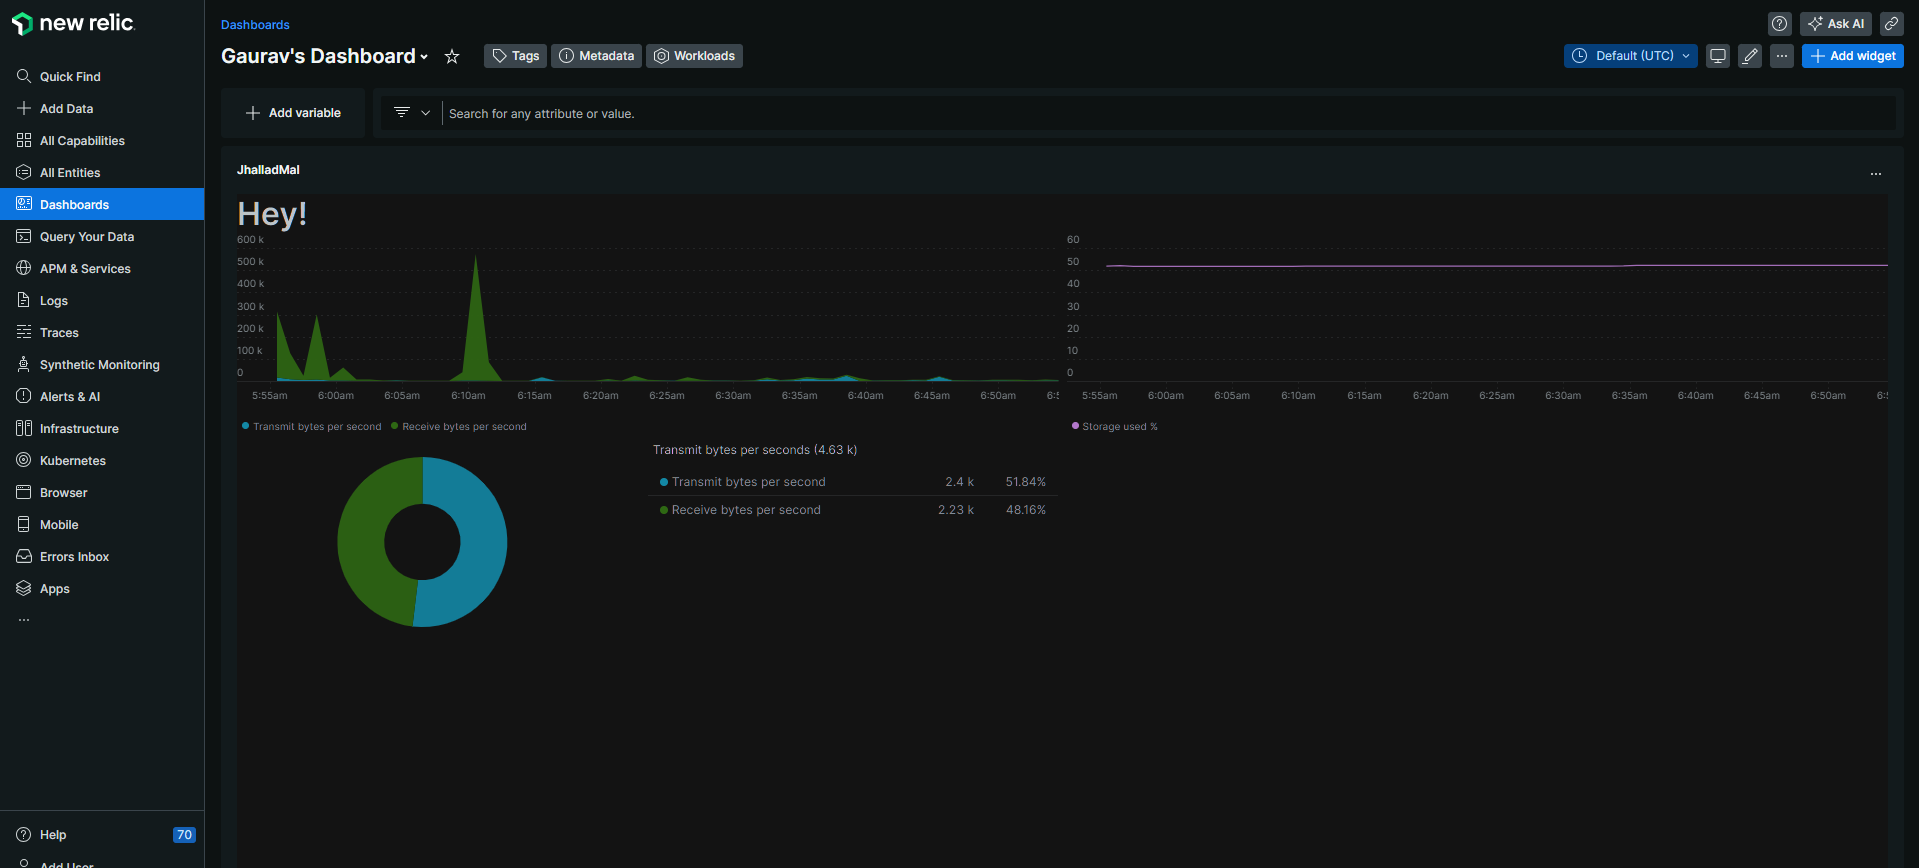
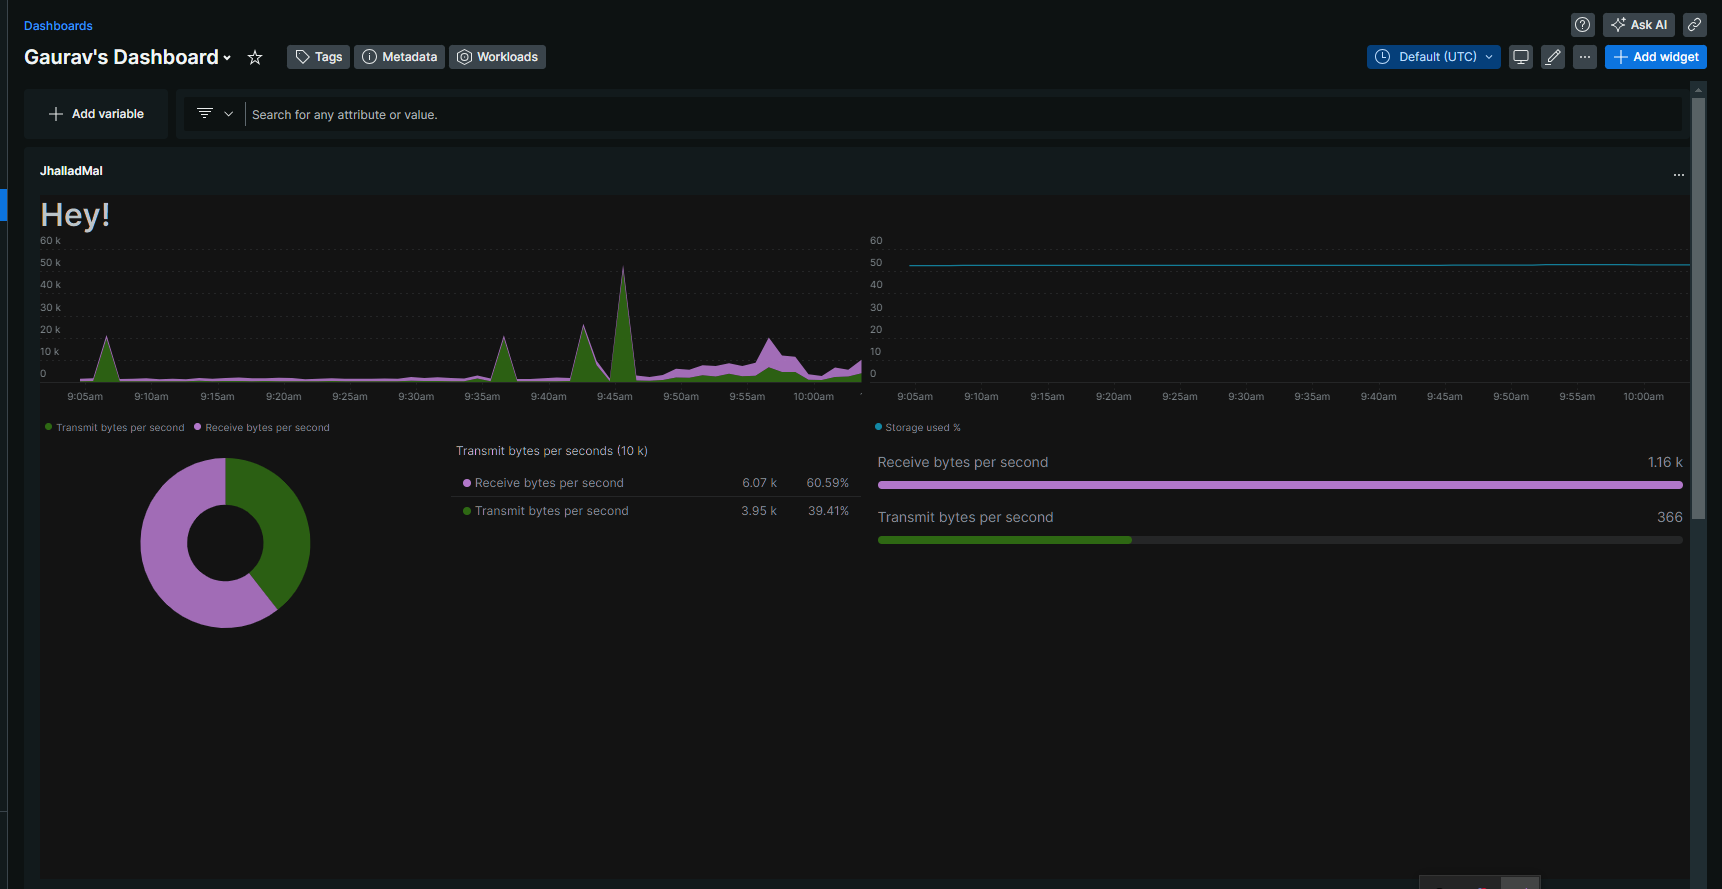
add

diff --git a/dist/2ee40707-fbaa-4a5f-817d-26e1fe98f58a--jhallad-mal~ffa349b2.js b/dist/2ee40707-fbaa-4a5f-817d-26e1fe98f58a--jhallad-mal~ffa349b2.js
@@ -1,0 +1,2 @@
+var __NR_MODULES="object"==typeof __NR_MODULES?__NR_MODULES:{};__NR_MODULES["2ee40707-fbaa-4a5f-817d-26e1fe98f58a--jhallad-mal"]=function(e){var t={};function r(n){if(t[n])return t[n].exports;var a=t[n]={i:n,l:!1,exports:{}};return e[n].call(a.exports,a,a.exports,r),a.l=!0,a.exports}r.m=e,r.c=t,r.d=function(e,t,n){r.o(e,t)||Object.defineProperty(e,t,{enumerable:!0,get:n})},r.r=function(e){"undefined"!=typeof Symbol&&Symbol.toStringTag&&Object.defineProperty(e,Symbol.toStringTag,{value:"Module"}),Object.defineProperty(e,"__esModule",{value:!0})},r.t=function(e,t){if(1&t&&(e=r(e)),8&t)return e;if(4&t&&"object"==typeof e&&e&&e.__esModule)return e;var n=Object.create(null);if(r.r(n),Object.defineProperty(n,"default",{enumerable:!0,value:e}),2&t&&"string"!=typeof e)for(var a in e)r.d(n,a,function(t){return e[t]}.bind(null,a));return n},r.n=function(e){var t=e&&e.__esModule?function(){return e.default}:function(){return e};return r.d(t,"a",t),t},r.o=function(e,t){return Object.prototype.hasOwnProperty.call(e,t)},r.p="https://cli-assets.service.datanerd.us/artifact-index-production/2ee40707-fbaa-4a5f-817d-26e1fe98f58a/det/";var n={__publicPath:function(e){r.p=e},__factory:function(t,r){const n=function(t,r,n,a){var o={};function c(t){if(o[t])return o[t].exports;var r=o[t]={i:t,l:!1,exports:{}};return e[t].call(r.exports,r,r.exports,c),r.l=!0,r.exports}return o[t]={i:t,l:!0,exports:r},o[n]={i:n,l:!0,exports:a},c.m=e,c.c=o,c.d=function(e,t,r){c.o(e,t)||Object.defineProperty(e,t,{enumerable:!0,get:r})},c.r=function(e){"undefined"!=typeof Symbol&&Symbol.toStringTag&&Object.defineProperty(e,Symbol.toStringTag,{value:"Module"}),Object.defineProperty(e,"__esModule",{value:!0})},c.t=function(e,t){if(1&t&&(e=c(e)),8&t)return e;if(4&t&&"object"==typeof e&&e&&e.__esModule)return e;var r=Object.create(null);if(c.r(r),Object.defineProperty(r,"default",{enumerable:!0,value:e}),2&t&&"string"!=typeof e)for(var n in e)c.d(r,n,function(t){return e[t]}.bind(null,n));return r},c.n=function(e){var t=e&&e.__esModule?function(){return e.default}:function(){return e};return c.d(t,"a",t),t},c.o=function(e,t){return Object.prototype.hasOwnProperty.call(e,t)},c.p="https://cli-assets.service.datanerd.us/artifact-index-production/2ee40707-fbaa-4a5f-817d-26e1fe98f58a/det/",c}("Xznc",t,"evsE",r);return n("LGqw")}};return n}({LGqw:function(e,t,r){"use strict";r.r(t);var n=r("Xznc"),a=r("evsE").injectedPackages.react,o=a.__esModule?a.default:a;t.default=function(){return o.createElement("div",{className:"heading"},o.createElement("h1",null,"Hey!"),o.createElement(n.Grid,null,o.createElement(n.GridItem,{columnSpan:6},o.createElement(n.AreaChart,{accountId:4438261,query:"SELECT average(transmitBytesPerSecond) AS `Transmit bytes per second`, average(receiveBytesPerSecond) AS `Receive bytes per second` FROM NetworkSample WHERE (entityGuid = 'NDQzODI2MXxJTkZSQXxOQXw5MDY2NzExMjg0MTc4NTQwMDM4') TIMESERIES AUTO",fullWidth:!0})),o.createElement(n.GridItem,{columnSpan:6},o.createElement(n.LineChart,{accountId:4438261,query:"SELECT average(diskUsedPercent) AS `Storage used %` FROM StorageSample WHERE (entityGuid = 'NDQzODI2MXxJTkZSQXxOQXw5MDY2NzExMjg0MTc4NTQwMDM4') TIMESERIES AUTO",fullWidth:!0})),o.createElement(n.GridItem,{columnSpan:6},o.createElement(n.PieChart,{accountId:4438261,query:"SELECT average(transmitBytesPerSecond) AS `Transmit bytes per second`, average(receiveBytesPerSecond) AS `Receive bytes per second` FROM NetworkSample WHERE (entityGuid = 'NDQzODI2MXxJTkZSQXxOQXw5MDY2NzExMjg0MTc4NTQwMDM4') TIMESERIES AUTO",fullWidth:!0})),o.createElement(n.GridItem,{columnSpan:6},o.createElement(n.BarChart,{accountId:4438261,query:"SELECT average(transmitBytesPerSecond) AS `Transmit bytes per second`, average(receiveBytesPerSecond) AS `Receive bytes per second` FROM NetworkSample WHERE (entityGuid = 'NDQzODI2MXxJTkZSQXxOQXw5MDY2NzExMjg0MTc4NTQwMDM4') TIMESERIES AUTO",fullWidth:!0}))))}},Xznc:function(e,t){e.exports=function(){throw new Error('Could not initialize "nr1"')}()},evsE:function(e,t){e.exports=function(){throw new Error('Could not initialize "__nr1-internal__"')}()}});
+//# sourceMappingURL=https://cli-assets.service.datanerd.us/artifact-index-production/2ee40707-fbaa-4a5f-817d-26e1fe98f58a/det/2ee40707-fbaa-4a5f-817d-26e1fe98f58a--jhallad-mal~ffa349b2.js.map

diff --git a/visualizations/jhallad-mal/index.js b/visualizations/jhallad-mal/index.js
@@ -1,6 +1,6 @@
 import React from "react";
 
-import { AreaChart, LineChart, PieChart } from "nr1";
+import { AreaChart, LineChart, PieChart,BarChart } from "nr1";
 import { Grid, GridItem } from "nr1";
 
 const index = () => {
@@ -24,6 +24,13 @@ const index = () => {
         </GridItem>
         <GridItem columnSpan={6}>
           <PieChart
+            accountId={4438261}
+            query="SELECT average(transmitBytesPerSecond) AS `Transmit bytes per second`, average(receiveBytesPerSecond) AS `Receive bytes per second` FROM NetworkSample WHERE (entityGuid = 'NDQzODI2MXxJTkZSQXxOQXw5MDY2NzExMjg0MTc4NTQwMDM4') TIMESERIES AUTO"
+            fullWidth
+          />
+        </GridItem>
+        <GridItem columnSpan={6}>
+          <BarChart
             accountId={4438261}
             query="SELECT average(transmitBytesPerSecond) AS `Transmit bytes per second`, average(receiveBytesPerSecond) AS `Receive bytes per second` FROM NetworkSample WHERE (entityGuid = 'NDQzODI2MXxJTkZSQXxOQXw5MDY2NzExMjg0MTc4NTQwMDM4') TIMESERIES AUTO"
             fullWidth

diff --git a/dist/2ee40707-fbaa-4a5f-817d-26e1fe98f58a--styles~86670f1f.css b/dist/2ee40707-fbaa-4a5f-817d-26e1fe98f58a--styles~86670f1f.css
@@ -14,4 +14,4 @@
   color:#a9a9a9;
 }
 
-/*# sourceMappingURL=https://cli-assets.service.datanerd.us/artifact-index-production/2ee40707-fbaa-4a5f-817d-26e1fe98f58a/det/2ee40707-fbaa-4a5f-817d-26e1fe98f58a--styles~5867863c.css.map*/
+/*# sourceMappingURL=https://cli-assets.service.datanerd.us/artifact-index-production/2ee40707-fbaa-4a5f-817d-26e1fe98f58a/det/2ee40707-fbaa-4a5f-817d-26e1fe98f58a--styles~86670f1f.css.map*/

diff --git a/tmp/2ee40707-fbaa-4a5f-817d-26e1fe98f58a-styles.1715594627118.scss b/tmp/2ee40707-fbaa-4a5f-817d-26e1fe98f58a-styles.1715594627118.scss
@@ -1,0 +1,1 @@
+@import "C:\\Users\\GauravBhainsora\\OneDrive - cloudEQ\\Desktop\\NewRelic\\jhallad-jj\\visualizations\\jhallad-mal\\styles.scss";
